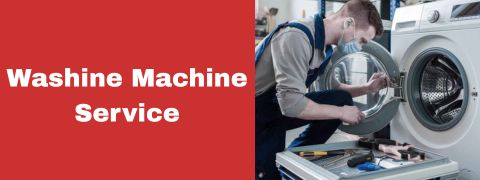
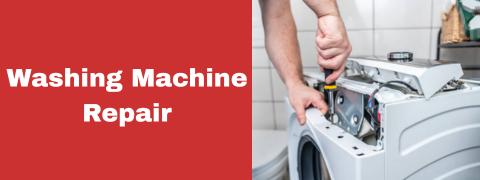
updated

diff --git a/index.html b/index.html
@@ -12,6 +12,7 @@
 	<!-- start header -->
 		  <!-- <script src="assets/js/6f4b66733d.js" crossorigin="anonymous"></script>
 		  <script src="assets/js/main.js"></script> -->
+		  <script src="assets/js/6f4b66733d.js" crossorigin="anonymous"></script>
 		  <link rel="stylesheet" href="assets/css/bootstrap.min.css" crossorigin="anonymous">
 		  <script src="assets/js/bootstrap.bundle.min.js"></script>
 		  <link rel="icon" href="assets/images/rps-favicon-color.png" width="60px" type="image/x-icon">
